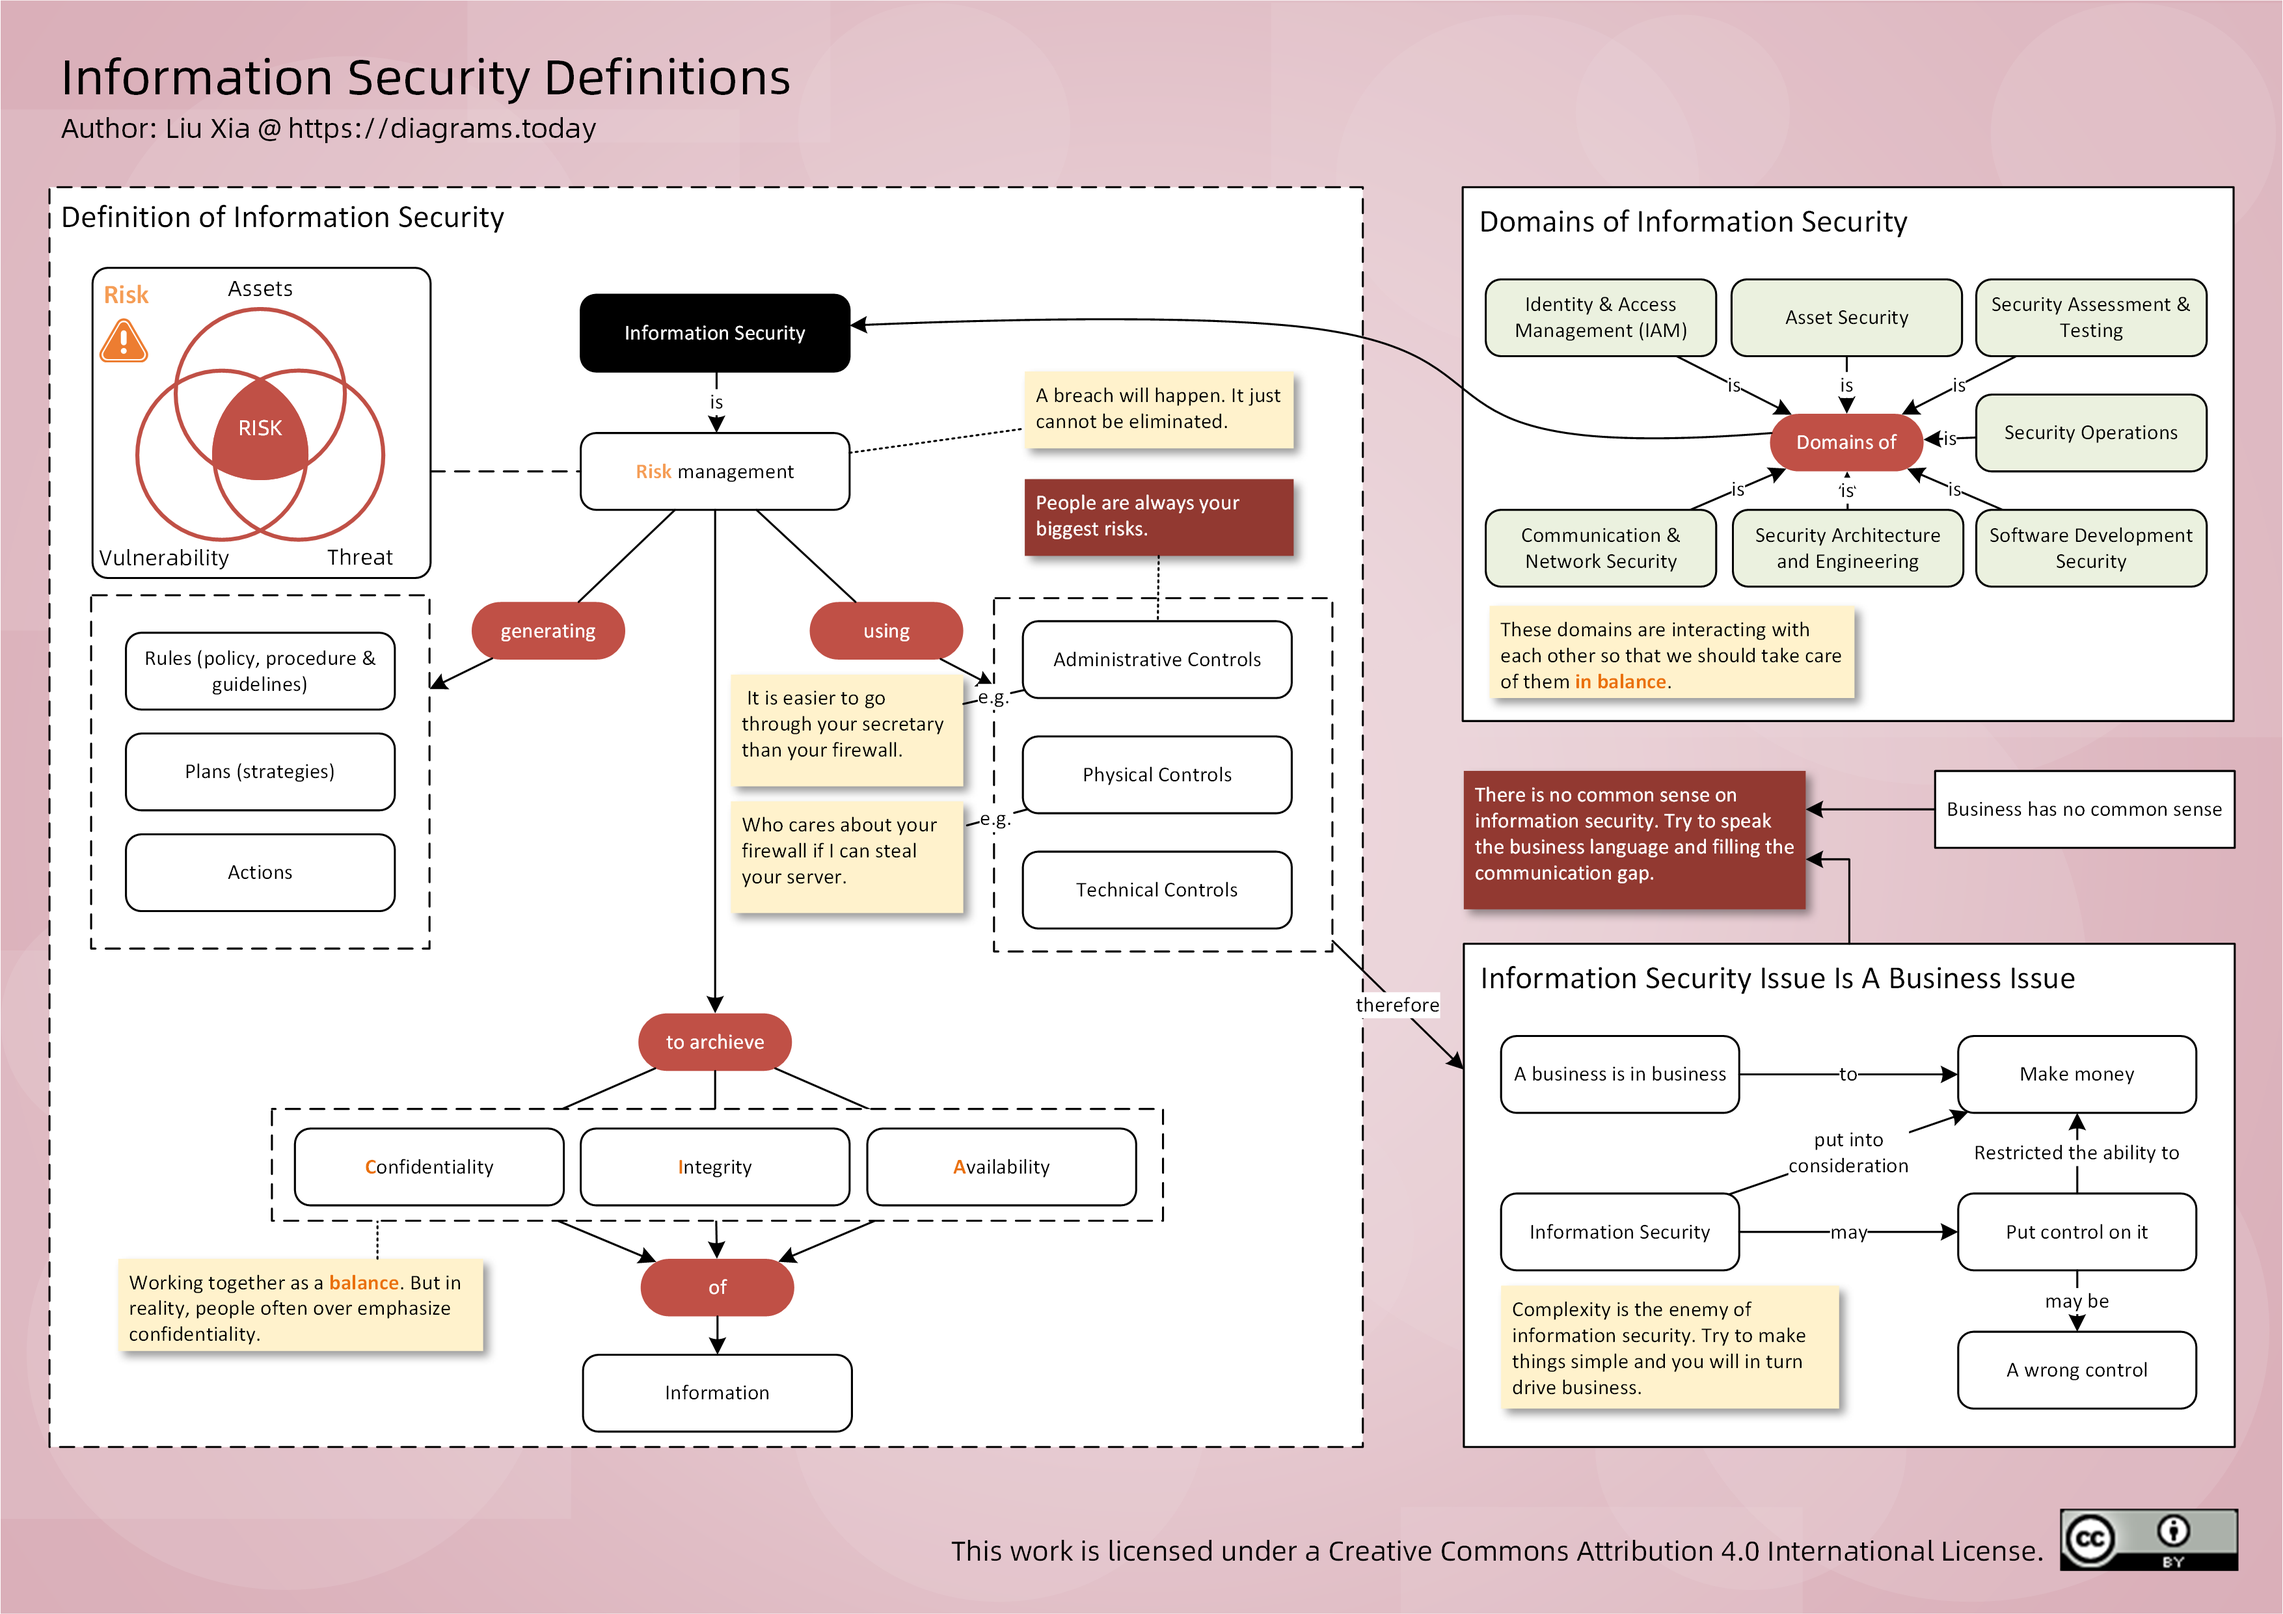
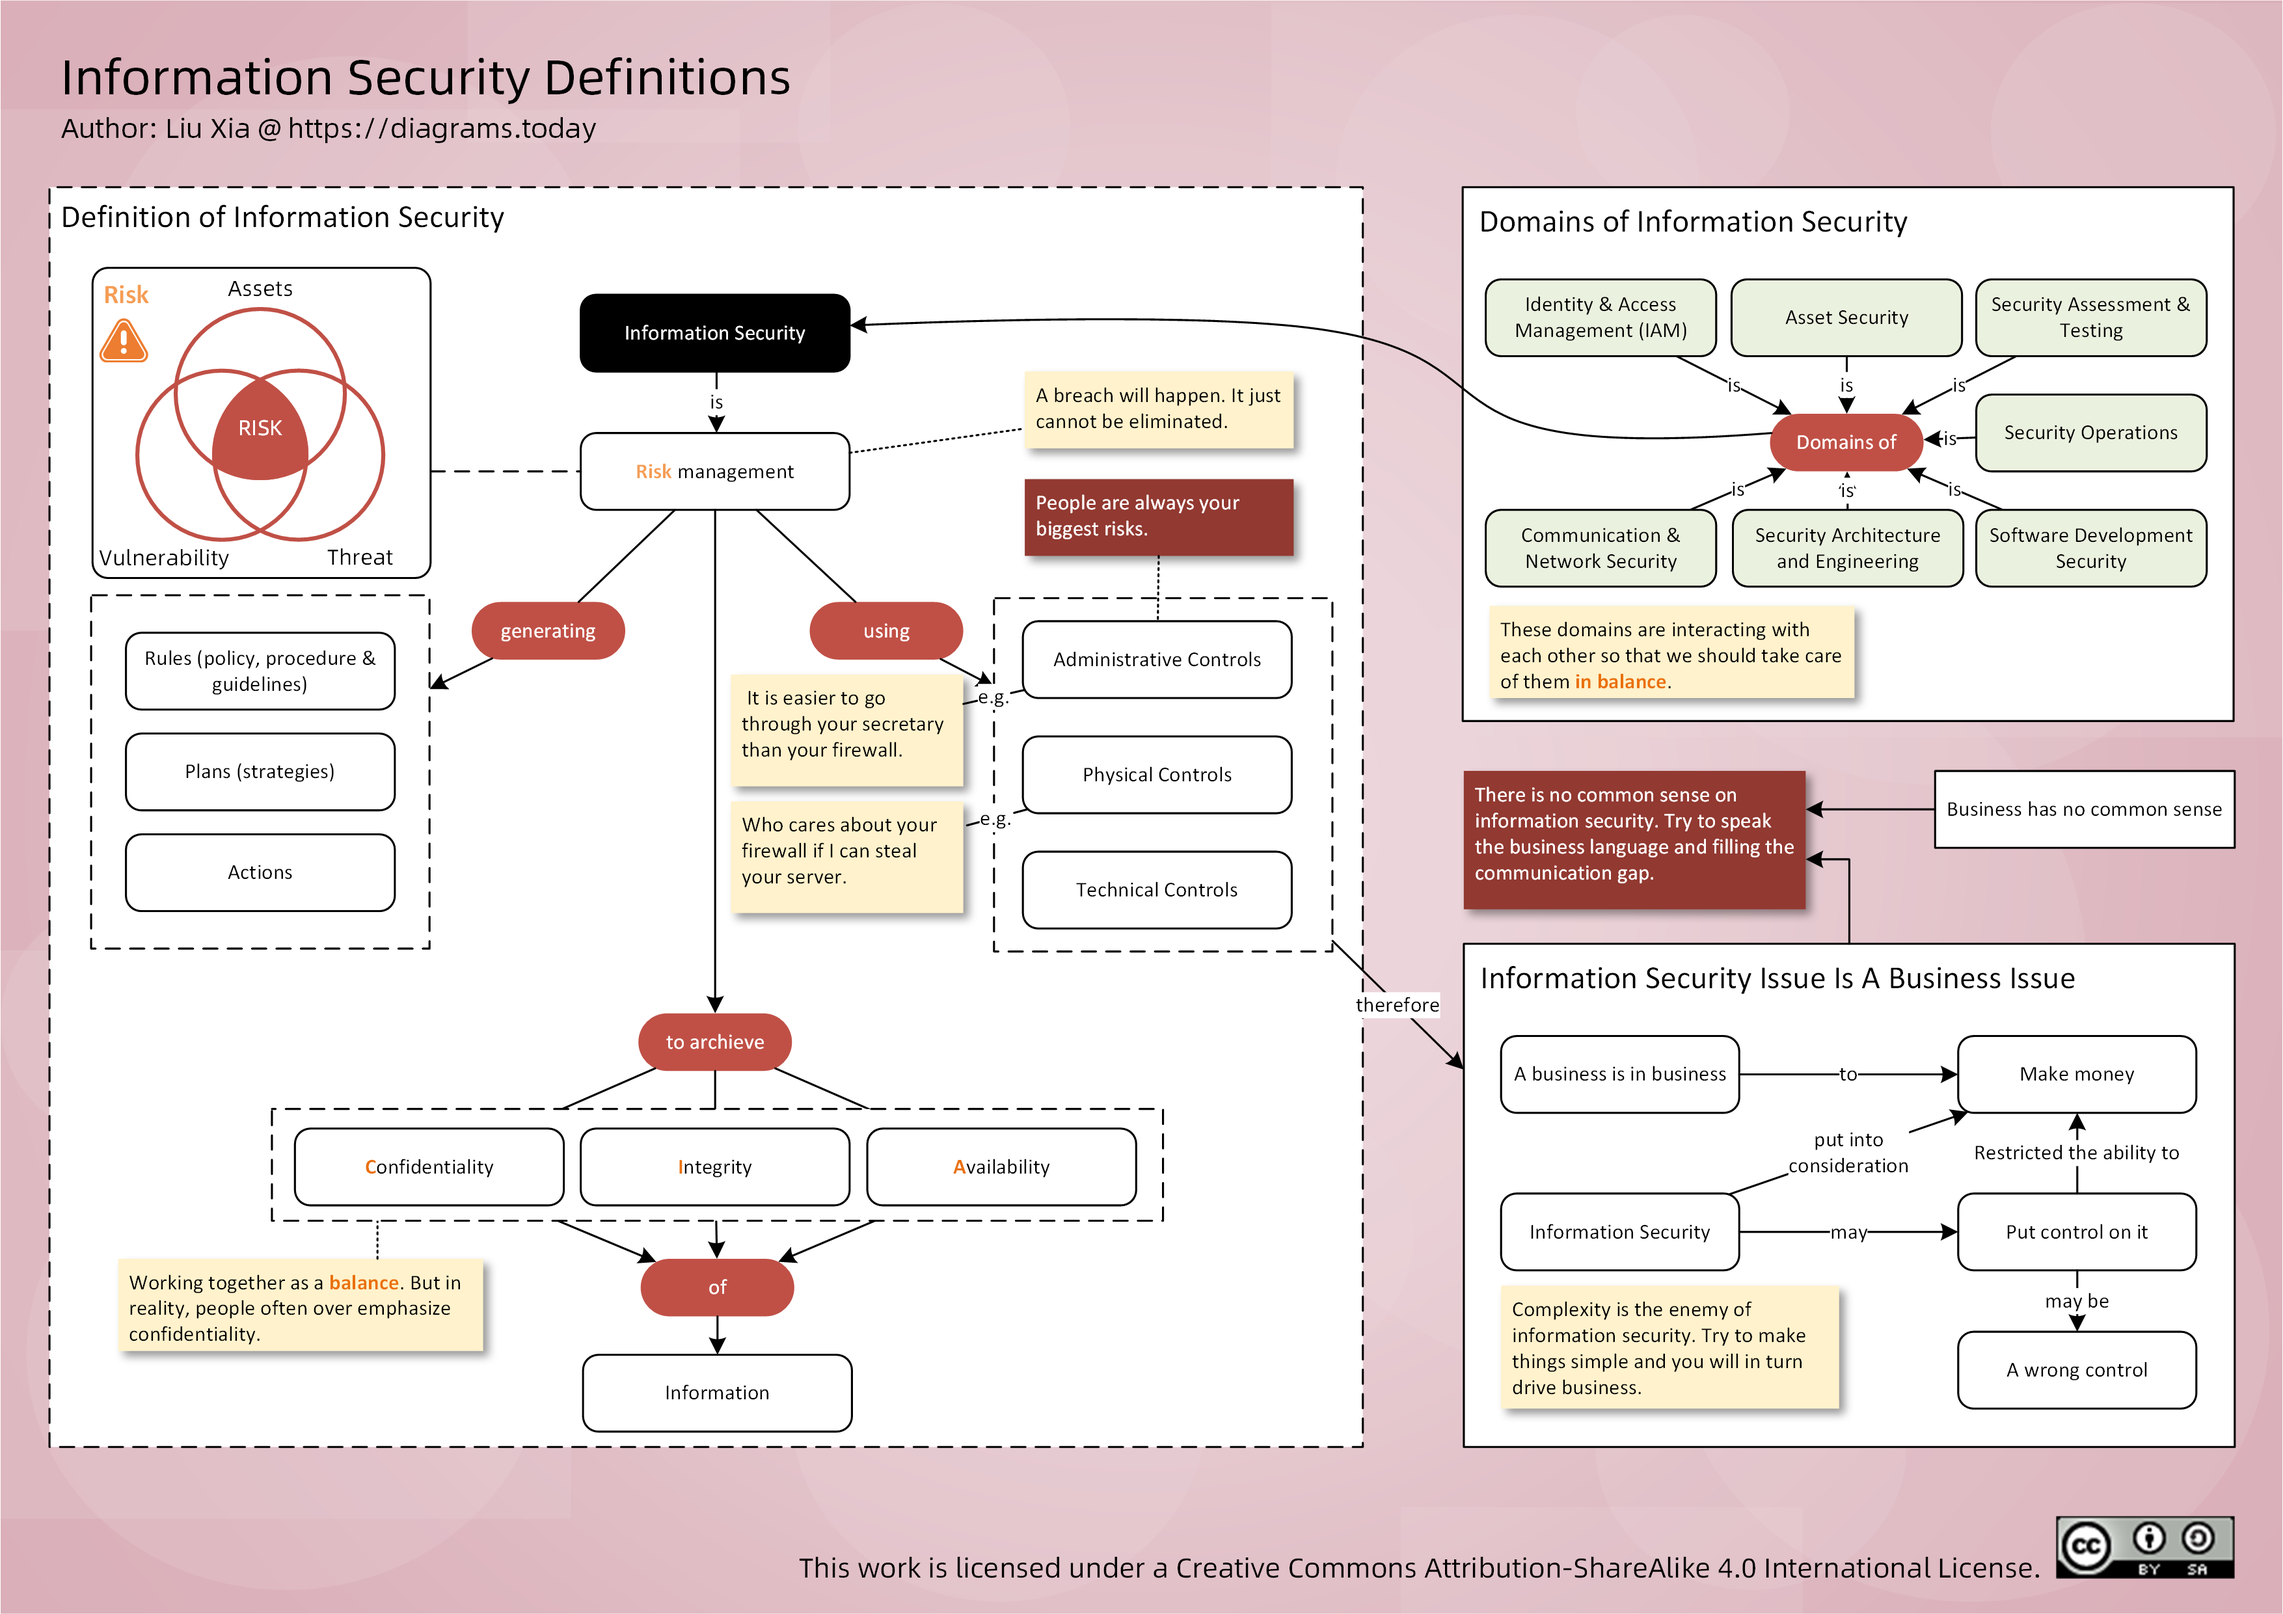
[liuxia] feat: update license to CC4.0 SA

Changed region(s): [[0.3728, 0.9311, 0.994, 0.9931]]

diff --git a/source/_posts/the-definition-of-information-security.md b/source/_posts/the-definition-of-information-security.md
@@ -17,4 +17,4 @@ tags:
 
 高清版本请点击 [此处](/images/information-security-def-big.png) 下载。
 
-<div style="text-align:center">本作品采用<a rel="license" href="http://creativecommons.org/licenses/by/4.0/">知识共享署名 4.0 国际许可协议</a>进行许可。</div>
+<div style="text-align:center">本作品采用<a rel="license" href="http://creativecommons.org/licenses/by-sa/4.0/">知识共享署名-相同方式共享 4.0 国际许可协议</a>进行许可。</div>

diff --git a/source/_posts/fundamental-threat-modeling-procedure.md b/source/_posts/fundamental-threat-modeling-procedure.md
@@ -21,4 +21,4 @@ tags:
 
 高清版本请点击 [此处](/images/threat-model-big.png) 下载。
 
-<div style="text-align:center">本作品采用<a rel="license" href="http://creativecommons.org/licenses/by/4.0/">知识共享署名 4.0 国际许可协议</a>进行许可。</div>
+<div style="text-align:center">本作品采用<a rel="license" href="http://creativecommons.org/licenses/by-sa/4.0/">知识共享署名-相同方式共享 4.0 国际许可协议</a>进行许可。</div>

diff --git a/scaffolds/post.md b/scaffolds/post.md
@@ -12,4 +12,4 @@ tags:
 
 高清版本请点击 [此处](/images/picture-name.png) 下载。
 
-<div style="text-align:center">本作品采用<a rel="license" href="http://creativecommons.org/licenses/by/4.0/">知识共享署名 4.0 国际许可协议</a>进行许可。</div>
+<div style="text-align:center">本作品采用<a rel="license" href="http://creativecommons.org/licenses/by-sa/4.0/">知识共享署名-相同方式共享 4.0 国际许可协议</a>进行许可。</div>
